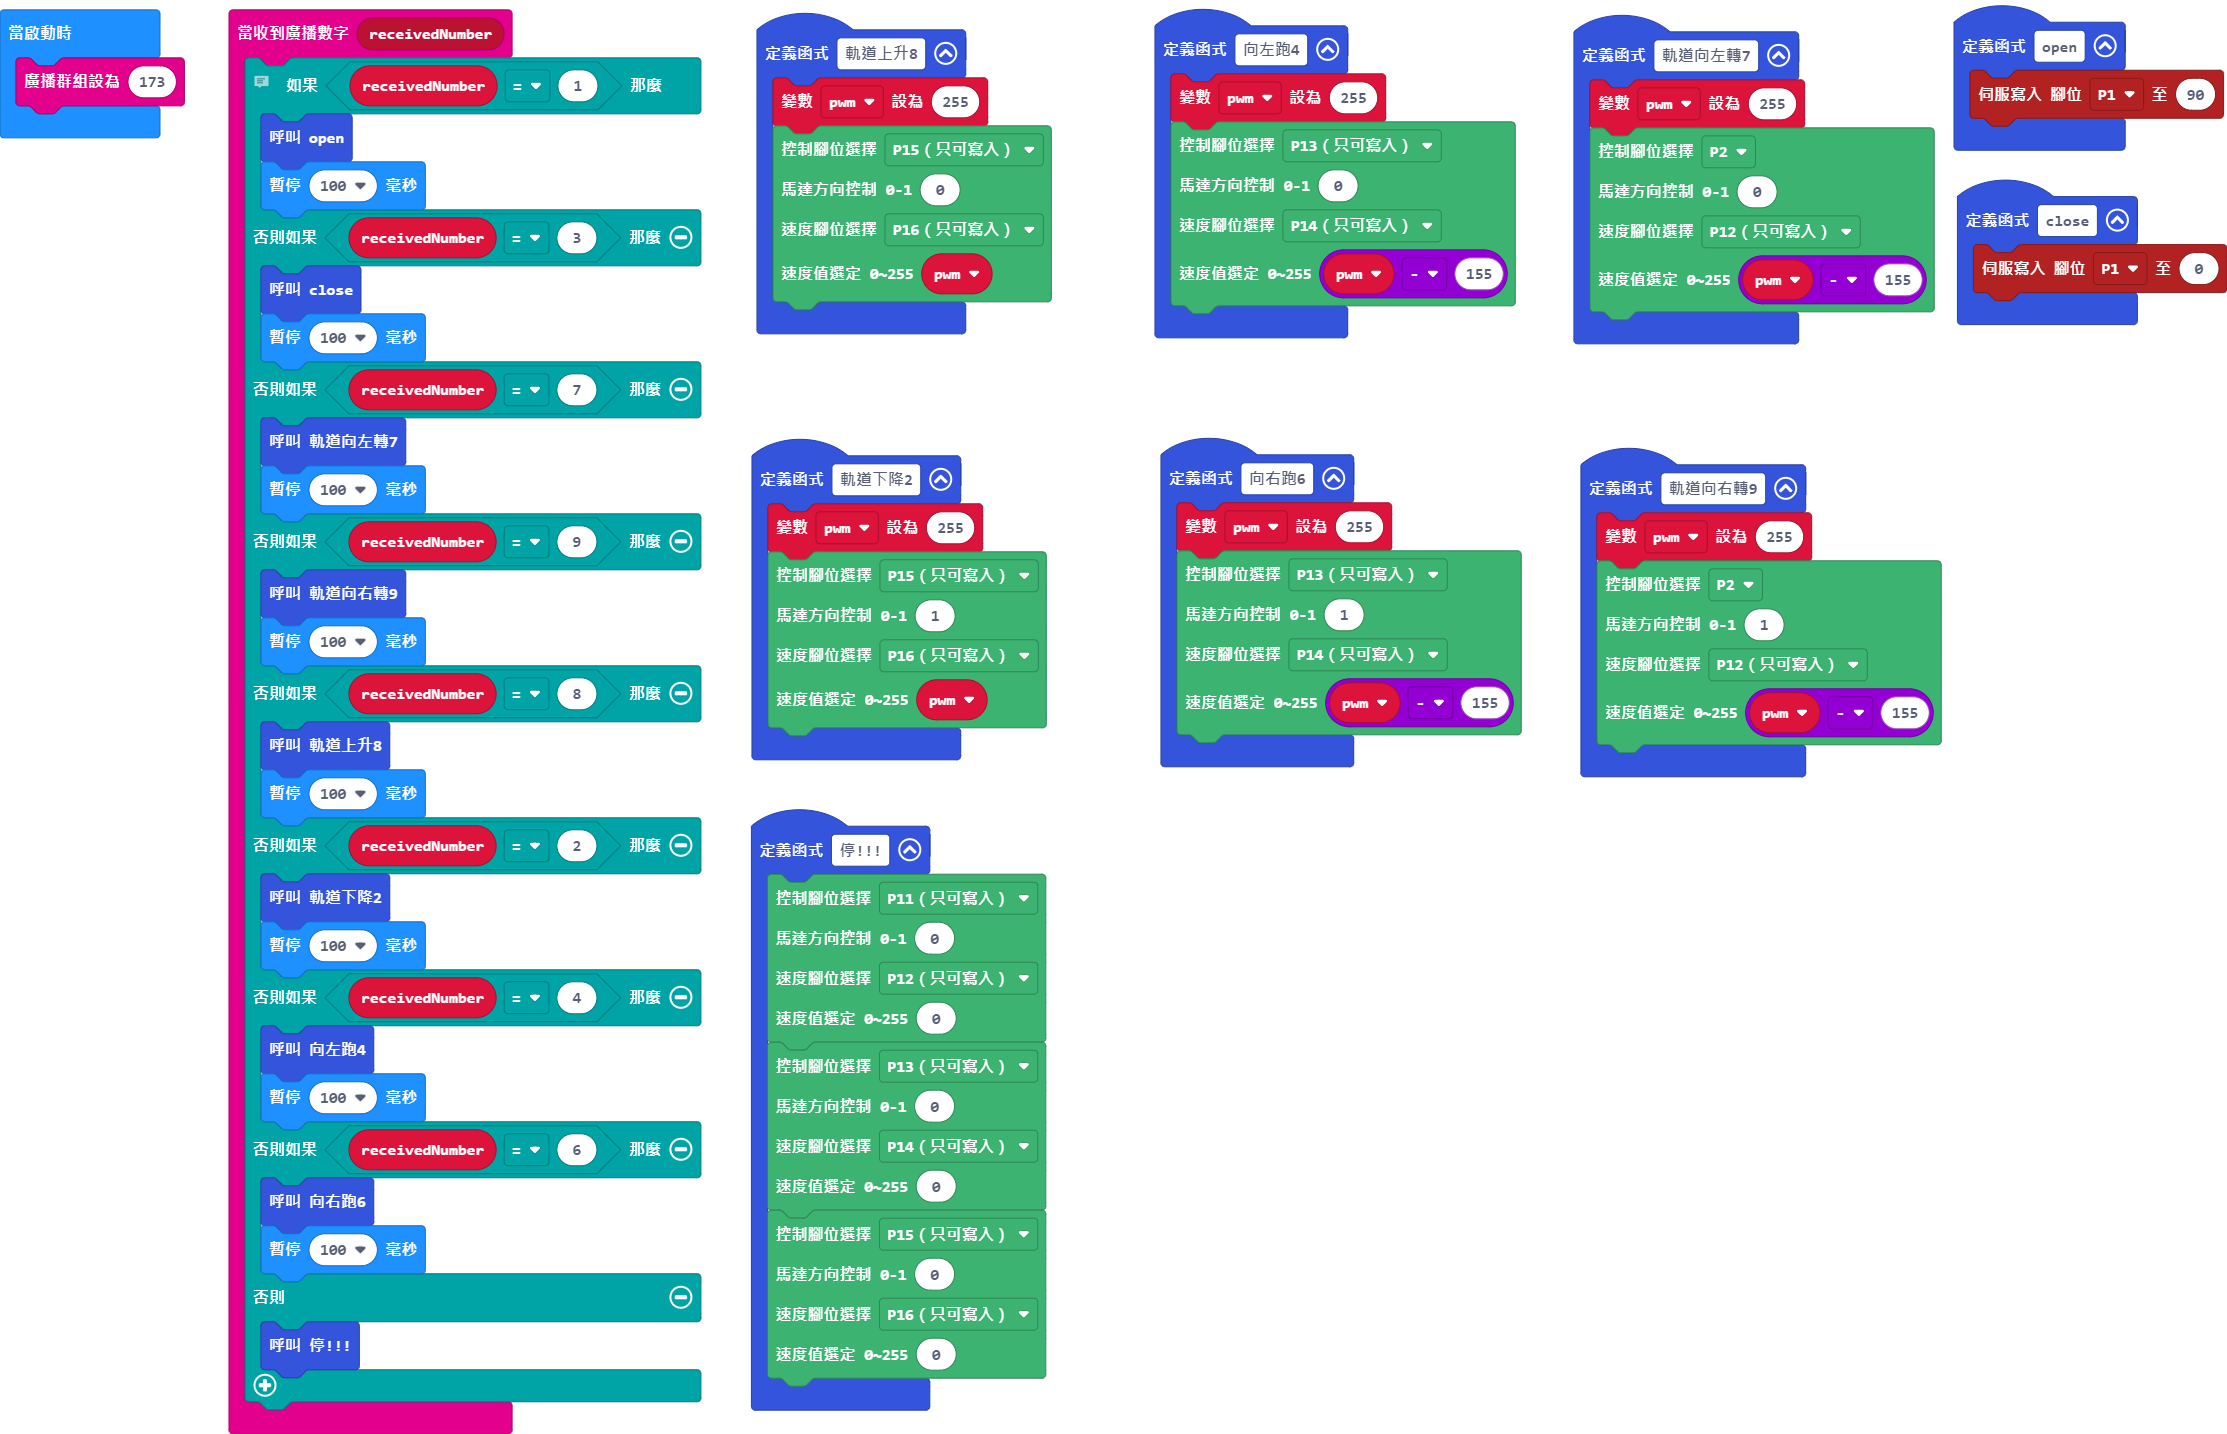
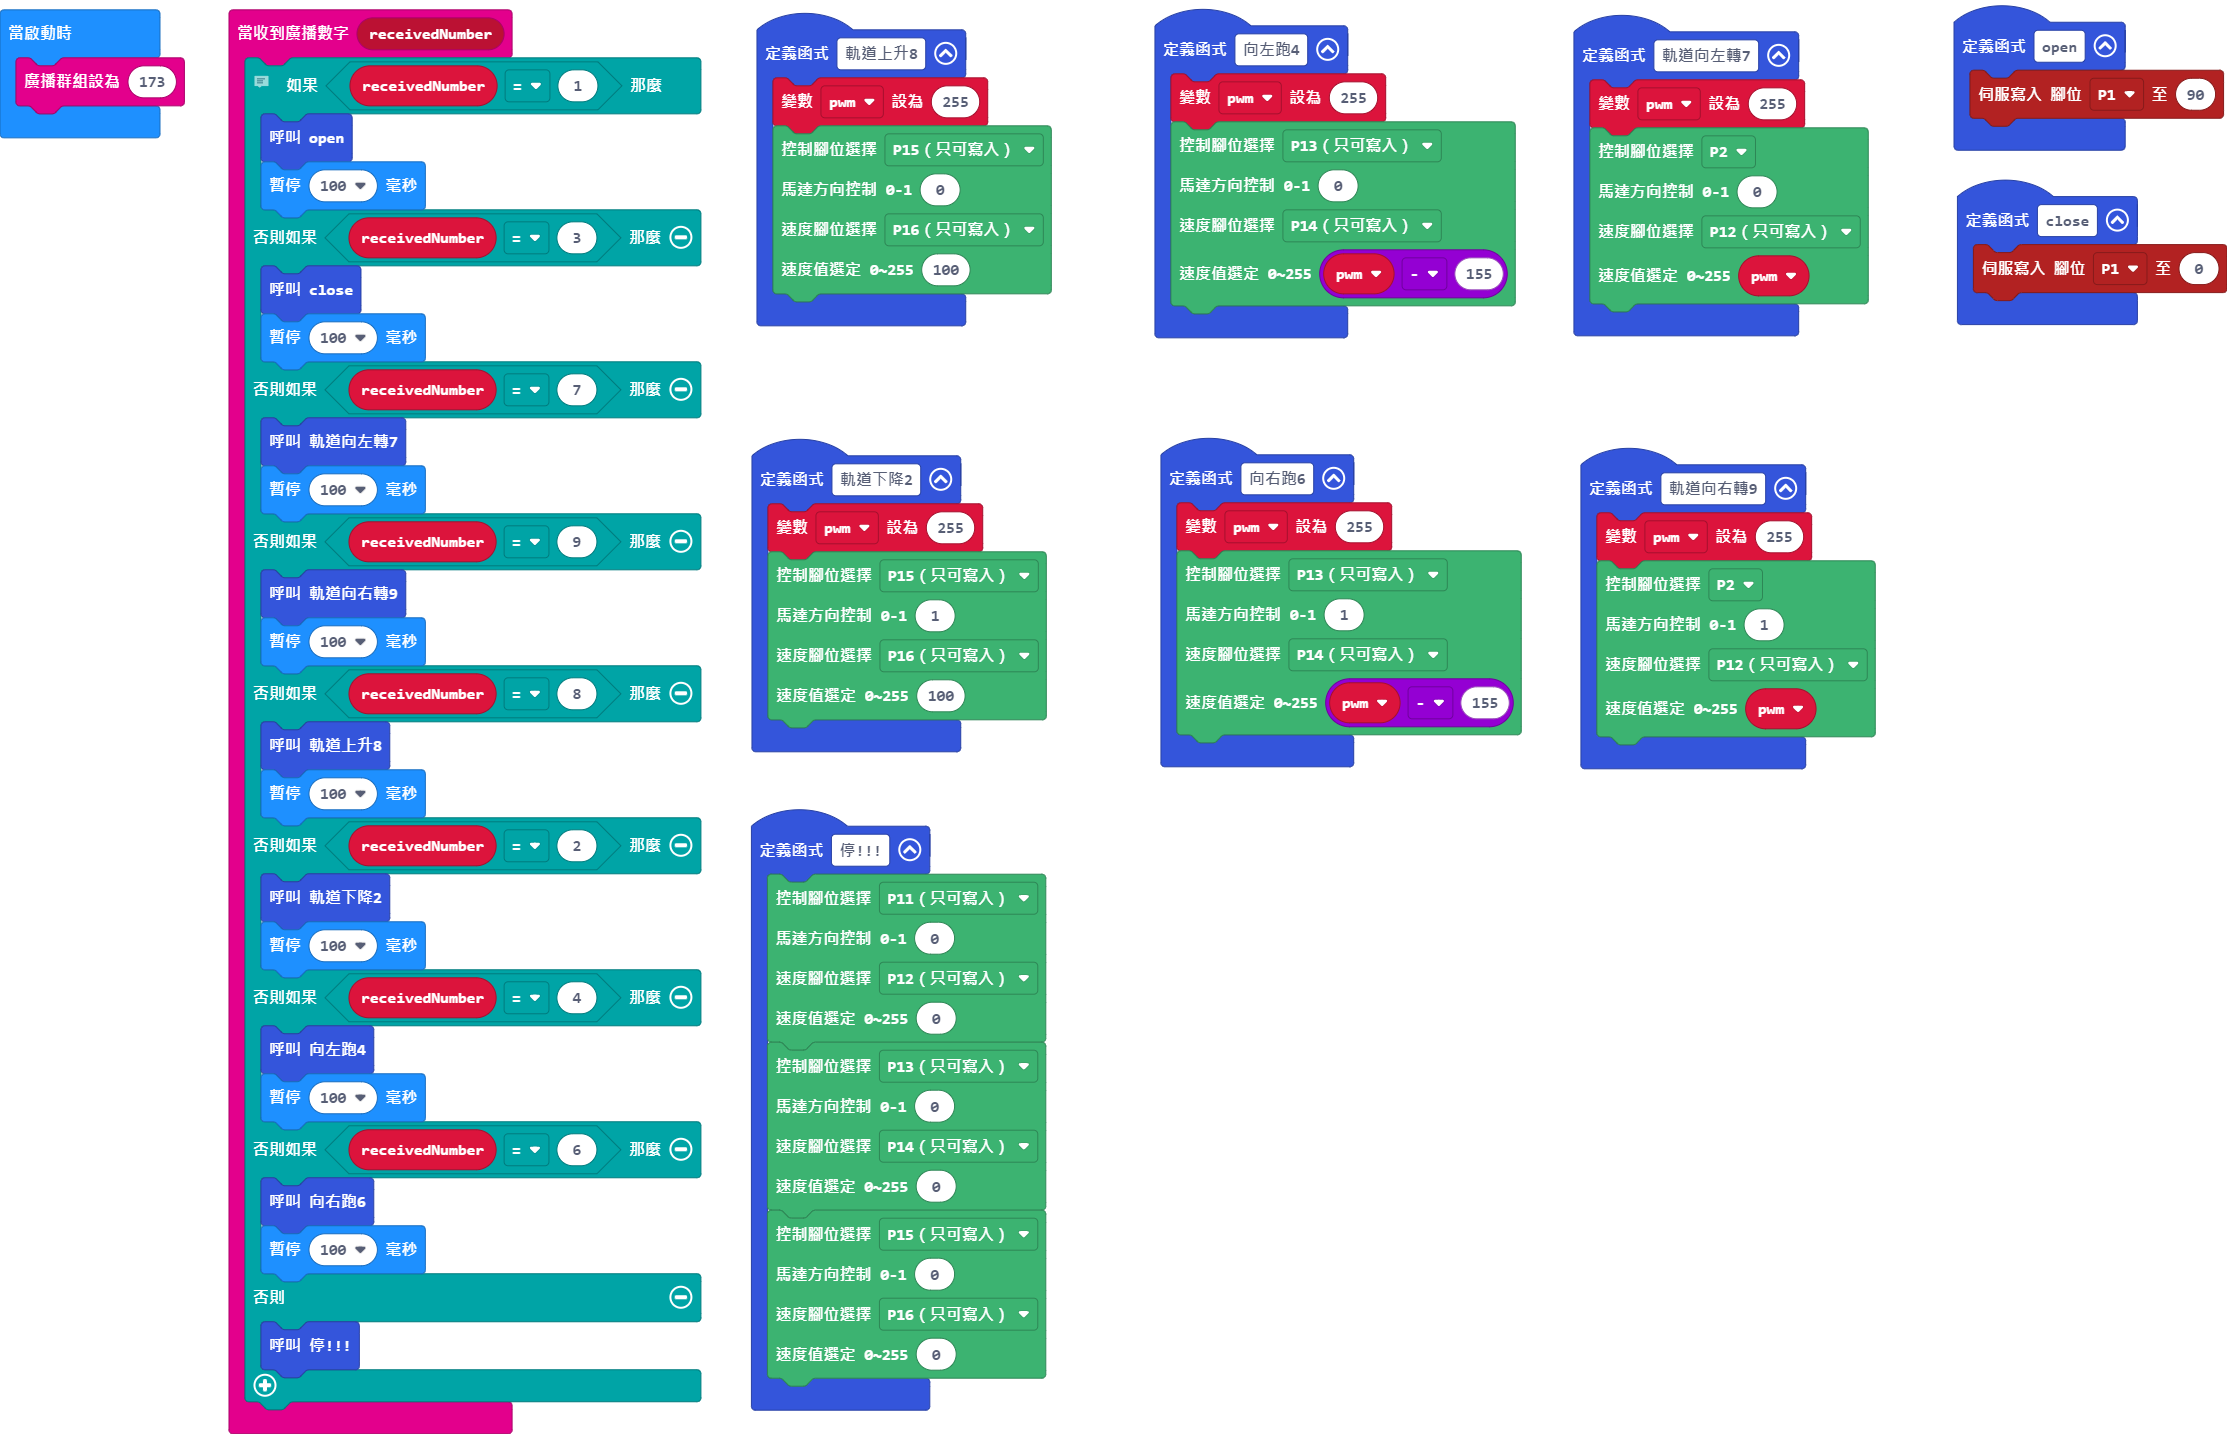
更新 main.blocks, main.ts

diff --git a/main.ts b/main.ts
@@ -44,7 +44,7 @@ function 軌道向右轉9 () {
     AnalogPin.P2,
     1,
     AnalogPin.P12,
-    pwm - 155
+    pwm
     )
 }
 function 軌道下降2 () {
@@ -53,7 +53,7 @@ function 軌道下降2 () {
     AnalogPin.P15,
     1,
     AnalogPin.P16,
-    pwm
+    100
     )
 }
 function 向左跑4 () {
@@ -83,7 +83,7 @@ function 軌道上升8 () {
     AnalogPin.P15,
     0,
     AnalogPin.P16,
-    pwm
+    100
     )
 }
 function 停 () {
@@ -112,7 +112,7 @@ function 軌道向左轉7 () {
     AnalogPin.P2,
     0,
     AnalogPin.P12,
-    pwm - 155
+    pwm
     )
 }
 let pwm = 0
